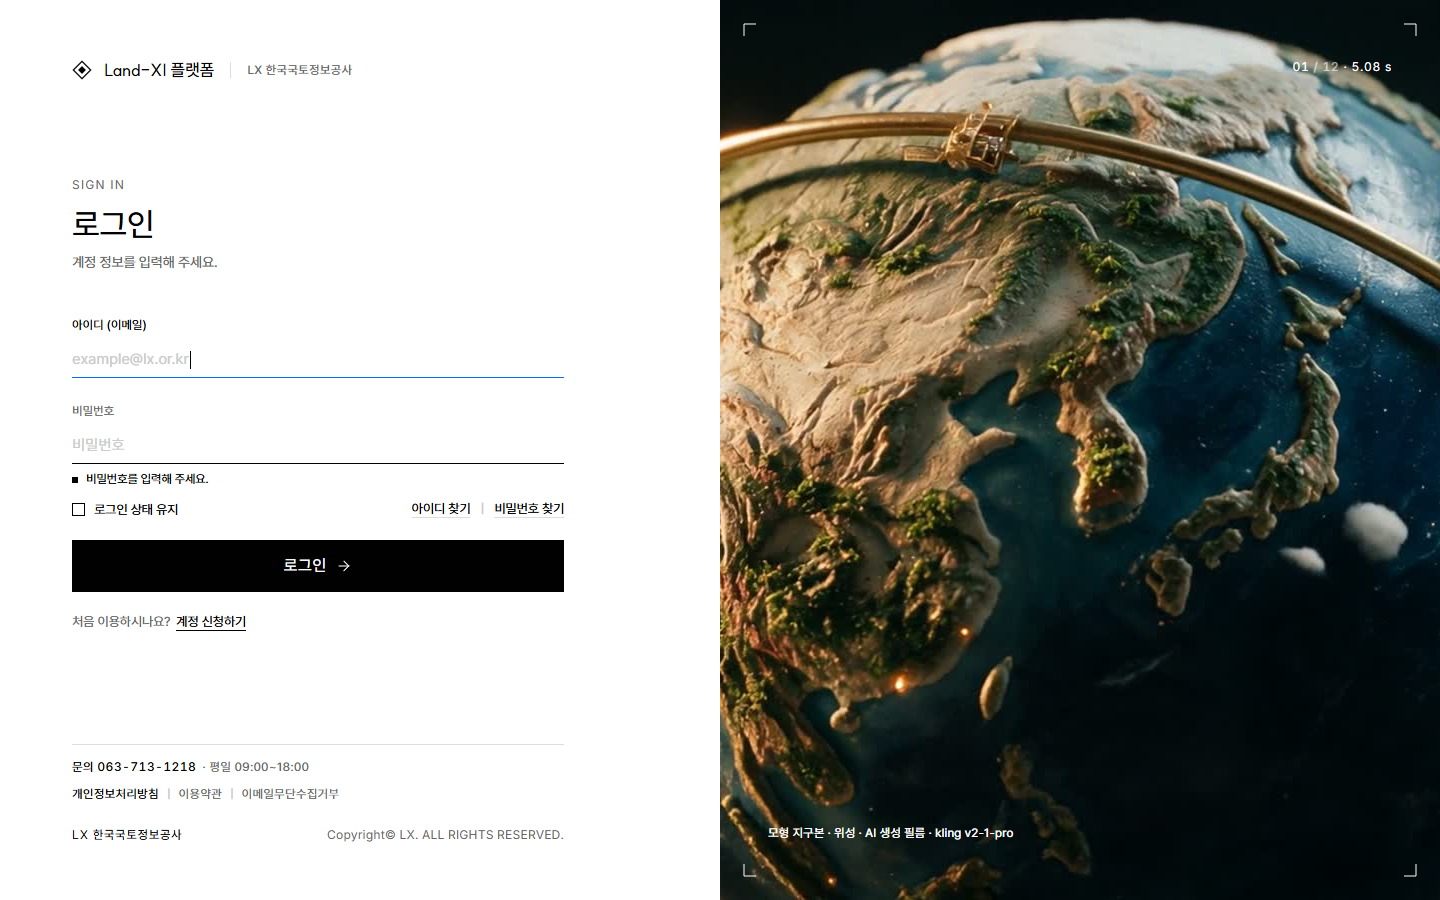
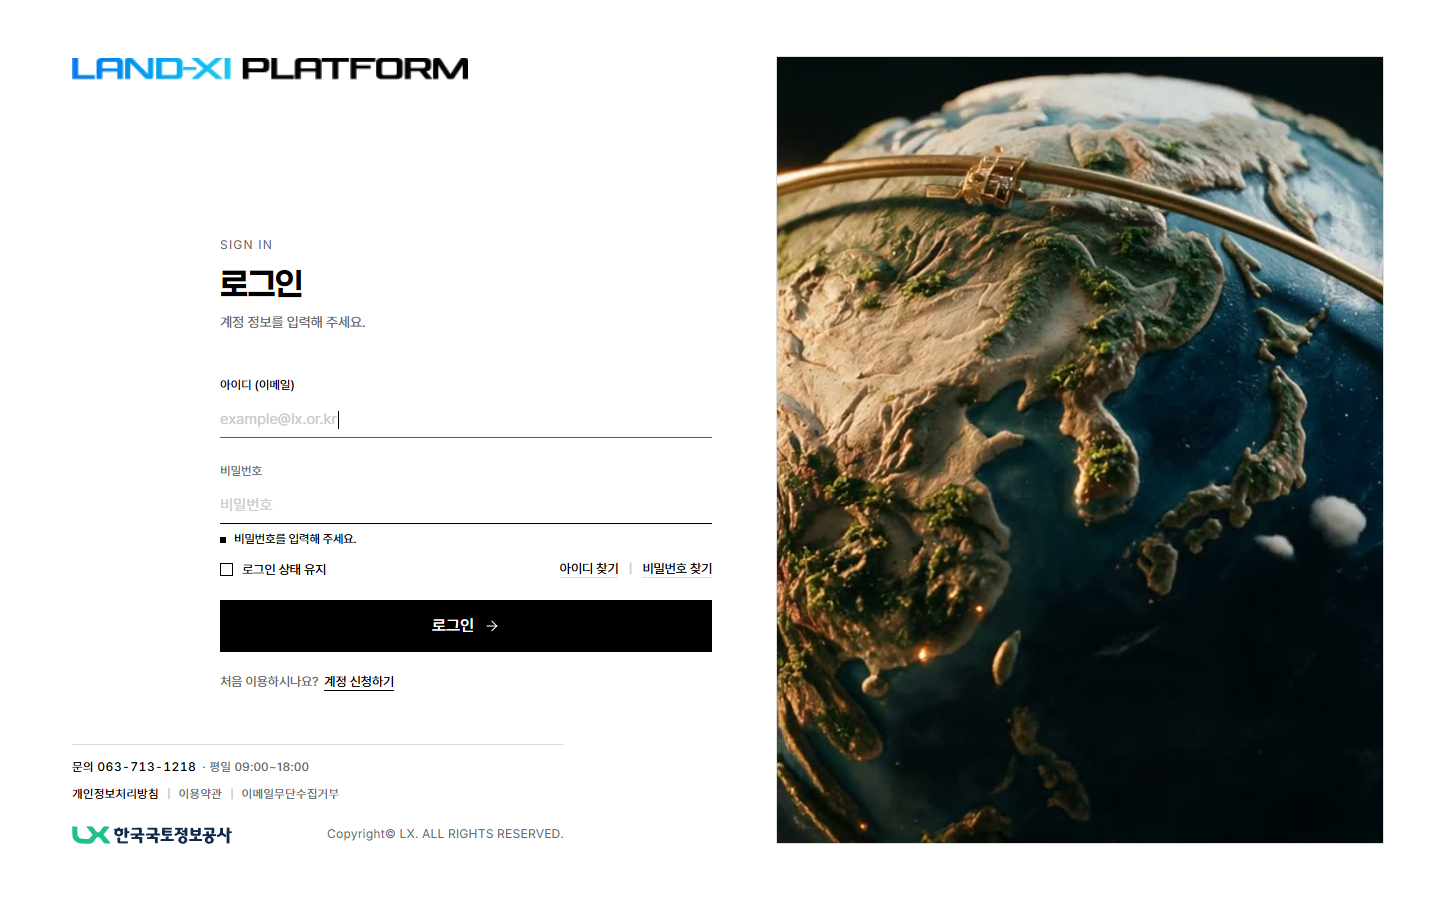
feat(login): 실제 CI 2종 + 필름 인셋 판(56) + 캡션 삭제 + 폼 우·하 이동 + Paperlogy/Pretendard T3
- 좌상 Land-XI 공식 워드마크(assets/brand/landxi-wordmark.png, 22px) · 좌하 LX 락업(vector/lx-lockup.svg, 18px) — 조판 로고·워드 대체(브랜드 예외)
- 우 필름: 풀블리드 → 마진 56 인셋 608×788, 헤어라인, 캡션·브래킷 0
- 폼 열 x 72→220(판과 간격 64), y +60 · 1024 폭 간격 유지
- 서체: 제목 Paperlogy 700 · 본문/버튼 Pretendard · 링크 호버 액센트(토큰은 login.css 로컬 정의)
- 마스터 B5-Login.dc.html · NOTES §14 3차 개정 · 렌더 · e2e 16/16

Claude-Session: https://claude.ai/code/session_01WM9MJXSpdbCfwY8af3obk9

diff --git a/design-canvas/v2/B5-Login.dc.html b/design-canvas/v2/B5-Login.dc.html
@@ -11,9 +11,13 @@
 @import url("https://cdn.jsdelivr.net/gh/sun-typeface/SUIT@2/fonts/static/woff2/SUIT.css");
 @import url("https://cdn.jsdelivr.net/gh/orioncactus/pretendard@v1.3.9/dist/web/static/pretendard.min.css");
 @import url("https://fonts.googleapis.com/css2?family=Inter:wght@400;500&display=swap");
+/* Paperlogy + Pretendard, T3 (발주 결정 2026-08-27) — 표시 Paperlogy 700, 본문/라벨/버튼 Pretendard */
+@font-face{font-family:'Paperlogy';font-weight:800;font-display:swap;src:url('https://fastly.jsdelivr.net/gh/projectnoonnu/2408-3@1.0/Paperlogy-8ExtraBold.woff2') format('woff2')}
+@font-face{font-family:'Paperlogy';font-weight:700;font-display:swap;src:url('https://fastly.jsdelivr.net/gh/projectnoonnu/2408-3@1.0/Paperlogy-7Bold.woff2') format('woff2')}
 *{box-sizing:border-box}
 body{margin:0;background:#FFFFFF;color:#010102;font-family:'Pretendard','SUIT',system-ui,sans-serif;font-weight:400;font-size:16px;line-height:1.44;-webkit-font-smoothing:antialiased}
-.d{font-family:'SUIT','Pretendard',system-ui,sans-serif;font-weight:500;letter-spacing:-.012em}
+.d{font-family:'Paperlogy','Pretendard',system-ui,sans-serif;font-weight:700;letter-spacing:-.012em}
+.b5{font-family:'Pretendard',system-ui,sans-serif;font-weight:500}
 .n{font-family:'Inter',system-ui,sans-serif;font-weight:400;font-variant-numeric:tabular-nums;font-feature-settings:'tnum' 1}
 .n5{font-family:'Inter',system-ui,sans-serif;font-weight:500;font-variant-numeric:tabular-nums;font-feature-settings:'tnum' 1}
 .lb{font-size:12px;line-height:1.2;letter-spacing:.10em;color:#686868;text-transform:uppercase;font-family:'Inter','Pretendard',system-ui,sans-serif}
@@ -25,22 +29,18 @@ body{margin:0;background:#FFFFFF;color:#010102;font-family:'Pretendard','SUIT',s
 </style></helmet>
 <div style="width:1440px;height:900px;position:relative;overflow:hidden;background:#FFFFFF;font-family:'Pretendard','SUIT',system-ui,sans-serif;color:#010102">
 
-<!-- LEFT 720 : login form is the primary object -->
-<div style="position:absolute;left:72px;top:58px;width:576px;display:flex;align-items:center;gap:12px">
-<svg width="20" height="20" viewBox="0 0 20 20" style="display:block"><path d="M10 1.4 18.6 10 10 18.6 1.4 10z" fill="none" stroke="#010102" stroke-width="1.3"/><path d="M10 6.1 13.9 10 10 13.9 6.1 10z" fill="#010102"/></svg>
-<div class="d" style="font-size:17px;letter-spacing:-.01em">Land-XI 플랫폼</div>
-<div style="width:1px;height:16px;background:#DDD;margin:0 4px"></div>
-<div class="kb">LX 한국국토정보공사</div>
-</div>
+<!-- LEFT 720 : anchors = real CI top-left + real LX lockup bottom-left; the form block sits right/low, 64px from the film plate.
+     Brand exception: both CI keep their own colours (Land-XI blue gradient · LX mint + navy). -->
+<img src="ci-landxi.png" alt="LAND-XI PLATFORM" style="position:absolute;left:72px;top:58px;height:22px;width:auto;display:block">
 
-<div style="position:absolute;left:72px;top:178px;width:492px">
+<div style="position:absolute;left:220px;top:238px;width:492px">
 <div class="lb">SIGN IN</div>
 <div class="d" style="font-size:32px;line-height:40px;margin-top:12px;letter-spacing:-.02em">로그인</div>
 <div style="font-size:14px;line-height:20px;margin-top:8px;color:#686868;letter-spacing:-.01em">계정 정보를 입력해 주세요.</div>
 </div>
 
 <!-- id field, focused: underline = the screen's single accent -->
-<div style="position:absolute;left:72px;top:318px;width:492px">
+<div style="position:absolute;left:220px;top:378px;width:492px">
 <div class="fld-l" style="color:#010102">아이디 (이메일)</div>
 <div class="fld" style="border-bottom:1px solid #006DF7">
 <div style="color:#CCCCCC">example@lx.or.kr</div>
@@ -49,7 +49,7 @@ body{margin:0;background:#FFFFFF;color:#010102;font-family:'Pretendard','SUIT',s
 </div>
 
 <!-- password field, empty-submit error (original copy) -->
-<div style="position:absolute;left:72px;top:404px;width:492px">
+<div style="position:absolute;left:220px;top:464px;width:492px">
 <div class="fld-l">비밀번호</div>
 <div class="fld"><div style="color:#CCCCCC">비밀번호</div></div>
 <div style="display:flex;align-items:center;gap:8px;margin-top:8px">
@@ -58,7 +58,7 @@ body{margin:0;background:#FFFFFF;color:#010102;font-family:'Pretendard','SUIT',s
 </div>
 </div>
 
-<div style="position:absolute;left:72px;top:500px;width:492px;display:flex;align-items:center">
+<div style="position:absolute;left:220px;top:560px;width:492px;display:flex;align-items:center">
 <div style="width:13px;height:13px;border:1px solid #010102;margin-right:9px"></div>
 <div class="link">로그인 상태 유지</div>
 <div style="margin-left:auto;display:flex;align-items:center;gap:10px">
@@ -67,12 +67,12 @@ body{margin:0;background:#FFFFFF;color:#010102;font-family:'Pretendard','SUIT',s
 </div>
 
 <!-- submit: the one filled CTA, ink -->
-<div style="position:absolute;left:72px;top:540px;width:492px;height:52px;background:#010102;display:flex;align-items:center;justify-content:center;gap:10px">
-<div class="d" style="font-size:16px;color:#FFFFFF;letter-spacing:.02em">로그인</div>
+<div style="position:absolute;left:220px;top:600px;width:492px;height:52px;background:#010102;display:flex;align-items:center;justify-content:center;gap:10px">
+<div class="b5" style="font-size:16px;color:#FFFFFF;letter-spacing:.02em">로그인</div>
 <svg width="16" height="16" viewBox="0 0 24 24" fill="none" stroke="#FFFFFF" stroke-width="1.6" stroke-linecap="square"><line x1="5" y1="12" x2="19" y2="12"/><polyline points="12 5 19 12 12 19"/></svg>
 </div>
 
-<div style="position:absolute;left:72px;top:614px;width:492px;display:flex;align-items:baseline;gap:6px">
+<div style="position:absolute;left:220px;top:674px;width:492px;display:flex;align-items:baseline;gap:6px">
 <div class="link" style="color:#686868">처음 이용하시나요?</div>
 <div class="link" style="border-bottom:1px solid #010102">계정 신청하기</div>
 </div>
@@ -87,23 +87,16 @@ body{margin:0;background:#FFFFFF;color:#010102;font-family:'Pretendard','SUIT',s
 <div style="display:flex;gap:8px;align-items:baseline;margin-top:12px">
 <div class="kb" style="color:#010102">개인정보처리방침</div><div class="sep" style="font-size:12px">|</div><div class="kb">이용약관</div><div class="sep" style="font-size:12px">|</div><div class="kb">이메일무단수집거부</div>
 </div>
-<div style="display:flex;align-items:baseline;margin-top:22px">
-<div class="d" style="font-size:12px;letter-spacing:.06em">LX 한국국토정보공사</div>
+<div style="display:flex;align-items:center;margin-top:22px">
+<img src="ci-lx-lockup.svg" alt="LX 한국국토정보공사" style="display:block;height:18px;width:auto">
 <div class="kb n" style="margin-left:auto;letter-spacing:.02em">Copyright© LX. ALL RIGHTS RESERVED.</div>
 </div>
 </div>
 
-<!-- RIGHT 720 : the diorama opening film, full-bleed (x 720–1440, y 0–900). Leg 1 frame @ t≈2.5 s.
-     Nothing on it but 12px white corner brackets and two caption lines — no HUD stickers. -->
-<div style="position:absolute;left:720px;top:0;width:720px;height:900px;overflow:hidden;background:#010102">
+<!-- RIGHT 720 : the diorama opening film as an inset plate — 56px white margin all round (x 776–1384 · y 56–844 = 608×788),
+     hairline edge, radius 0, shadow 0. Leg 1 frame @ t≈2.5 s. No captions, no brackets — the hairline is the frame. -->
+<div style="position:absolute;left:776px;top:56px;width:608px;height:788px;overflow:hidden;background:#010102;border:1px solid #DDDDDD">
 <img src="login-film.jpg" alt="" style="display:block;width:100%;height:100%;object-fit:cover;object-position:50% 50%">
-</div>
-<svg width="720" height="900" viewBox="0 0 720 900" style="position:absolute;left:720px;top:0;display:block"><path d="M24 36V24h12M684 24h12v12M696 864v12h-12M36 876H24v-12" fill="none" stroke="#FFFFFF" stroke-width="1"/></svg>
-<div style="position:absolute;left:720px;top:58px;width:720px;padding:0 48px;display:flex;align-items:baseline">
-<div class="n" style="margin-left:auto;font-size:12px;letter-spacing:.06em;color:#FFFFFF">01 <span style="opacity:.6">/ 12</span> · 5.08 s</div>
-</div>
-<div style="position:absolute;left:720px;top:826px;width:720px;padding:0 48px;display:flex;align-items:baseline">
-<div class="kb" style="color:#FFFFFF;letter-spacing:.02em">모형 지구본 · 위성 · AI 생성 필름 · kling v2-1-pro</div>
 </div>
 
 </div>

diff --git a/landxi/proto/login.css b/landxi/proto/login.css
@@ -1,8 +1,8 @@
 /* Land-XI 로그인 — 마스터 design-canvas/v2/B5-Login.dc.html (NOTES §14 · 2차 개정).
    SPLIT-5050(3차 개정): 좌 = 실제 CI 두 개가 앵커(좌상 Land-XI 워드마크 · 좌하 LX 락업), 폼(492)은 우·하로 붙어
    판과의 간격 64 · 우 = 디오라마 오프닝 필름(Leg 01) 인셋 판(마진 56 → 608×788, 헤어라인, 캡션 0).
-   서체 SUIT 500 / Pretendard 400 / Inter tabular · 헤어라인 · radius 0 · shadow 0 · 12px 바닥.
-   액센트 #006DF7 은 아이디·비밀번호 포커스 밑줄 한 곳.
+   서체(발주 결정 2026-08-27): 표시 Paperlogy 700 / 본문·라벨·버튼 Pretendard / 숫자 Inter tabular · 헤어라인 · radius 0 · shadow 0 · 12px 바닥.
+   톤 T3: 잉크 시스템 + 액센트 #006DF7(포커스 밑줄 · 링크 호버) · CTA 는 잉크. 띠 색 --tint-1/2 는 정의만(현재 미사용).
 
    프리미티브는 system.css 에서 온다: .lx-skip · .lx-num · [--lx-*] 토큰.
    여기 있는 것은 이 화면에만 있는 것뿐이다: .lx-field(밑줄 폼) · .lx-check · 필름 판 · 브래킷. */
@@ -12,11 +12,19 @@
   --lg-col:492px;               /* 폼 폭 */
   --lg-gap:64px;                /* 폼 오른끝 ↔ 필름 판 왼끝 */
   --lg-inset:56px;              /* 필름 판 마진 */
-  --lg-tint:#E8F1FF;            /* 필요 시 띠 색 — 현재 미사용 */
 }
 
 html,body{ height:100%; }
 body.lx{ overflow:hidden; background:var(--lx-paper); color:var(--lx-ink); }
+
+/* Paperlogy — fonts.html 과 같은 noonnu(jsDelivr) 배포. 토큰 --font-display/--tint-* 는 v3-tokens.css 에 아직 없어 여기 로컬 정의. */
+@font-face{font-family:'Paperlogy';font-weight:800;font-display:swap;src:url('https://fastly.jsdelivr.net/gh/projectnoonnu/2408-3@1.0/Paperlogy-8ExtraBold.woff2') format('woff2')}
+@font-face{font-family:'Paperlogy';font-weight:700;font-display:swap;src:url('https://fastly.jsdelivr.net/gh/projectnoonnu/2408-3@1.0/Paperlogy-7Bold.woff2') format('woff2')}
+:root{
+  --font-display:"Paperlogy","Pretendard",system-ui,sans-serif;
+  --tint-1:#E8F1FF;
+  --tint-2:#D6E6FF;
+}
 
 /* ── 액자 — 50/50 ─────────────────────────────────────────────────────────── */
 .lg{ position:relative; display:grid; grid-template-columns:1fr 1fr; height:100vh; min-height:640px; overflow:hidden; }
@@ -27,14 +35,14 @@ body.lx{ overflow:hidden; background:var(--lx-paper); color:var(--lx-ink); }
   /* 오른쪽 패딩 = 판 마진에서 폼 간격을 뺀 것 → 폼 오른끝이 판 왼끝에서 정확히 --lg-gap 떨어진다. */
   padding:58px calc(var(--lg-gap) - var(--lg-inset)) 40px var(--lg-m);
 }
-/* 실제 CI — 브랜드 예외: 공식 그라디언트 그대로(팔레트 법 밖). 높이 28 고정, 폭은 비율. */
+/* 실제 CI — 브랜드 예외: 공식 그라디언트 그대로(팔레트 법 밖). 높이 22 고정, 폭은 비율. */
 .lg-brand{ display:block; width:max-content; }
-.lg-brand__ci{ display:block; height:28px; width:auto; }
+.lg-brand__ci{ display:block; height:22px; width:auto; }
 
 /* 폼 블록은 우·하로 — 왼쪽 CI 와 판 사이 빈 공간을 없앤다. */
-.lg-head{ margin-top:160px; width:var(--lg-col); max-width:100%; margin-left:auto; }
+.lg-head{ margin-top:158px; width:var(--lg-col); max-width:100%; margin-left:auto; }
 .lg-head__l{ margin:0; font-size:12px; line-height:14px; letter-spacing:.10em; text-transform:uppercase; color:var(--lx-grey-2); }
-.lg-h1{ margin:12px 0 0; font-family:var(--lx-display); font-weight:500; font-size:32px; line-height:40px; letter-spacing:-.02em; }
+.lg-h1{ margin:12px 0 0; font-family:var(--font-display); font-weight:700; font-size:32px; line-height:40px; letter-spacing:-.02em; }
 .lg-sub{ margin:8px 0 0; font-size:14px; line-height:20px; letter-spacing:-.01em; color:var(--lx-grey-2); }
 .lg-banner{ margin:12px 0 0; font-size:12px; line-height:16px; color:var(--lx-ink); }
 .lg-banner[hidden]{ display:none; }
@@ -72,13 +80,13 @@ body.lx{ overflow:hidden; background:var(--lx-paper); color:var(--lx-ink); }
 .lx-check input:focus-visible + .lx-check__box{ outline:1px solid var(--lx-ink); outline-offset:2px; }
 .lg-find{ margin-left:auto; display:flex; align-items:center; gap:10px; }
 .lg-find__a{ font-size:13px; line-height:16px; letter-spacing:-.01em; color:var(--lx-ink); text-decoration:none; border-bottom:1px solid var(--lx-hair); transition:border-color var(--lx-hover) var(--lx-hover-ease); }
-.lg-find__a:hover{ border-bottom-color:var(--lx-ink); }
+.lg-find__a:hover{ color:var(--lx-accent); border-bottom-color:var(--lx-accent); }
 .lg-sep{ font-size:12px; color:var(--lx-grey); }
 
 .lg-submit{
   display:flex; align-items:center; justify-content:center; gap:10px; width:100%; height:52px; margin-top:24px;
   border:0; border-radius:0; background:var(--lx-ink); color:#FFFFFF; cursor:pointer;
-  font-family:var(--lx-display); font-weight:500; font-size:16px; letter-spacing:.02em;
+  font-family:var(--lx-body); font-weight:500; font-size:16px; letter-spacing:.02em;
 }
 .lg-submit[disabled]{ cursor:default; opacity:.6; }
 .lg-submit:focus-visible{ outline:1px solid var(--lx-ink); outline-offset:3px; }
@@ -86,14 +94,15 @@ body.lx{ overflow:hidden; background:var(--lx-paper); color:var(--lx-ink); }
 .lg-submit:hover svg{ transform:translateX(4px); }
 
 .lg-signup{ margin:22px 0 0; font-size:13px; line-height:16px; letter-spacing:-.01em; color:var(--lx-grey-2); }
-.lg-signup__a{ color:var(--lx-ink); text-decoration:none; border-bottom:1px solid var(--lx-ink); }
+.lg-signup__a{ color:var(--lx-ink); text-decoration:none; border-bottom:1px solid var(--lx-ink); transition:color var(--lx-hover) var(--lx-hover-ease), border-color var(--lx-hover) var(--lx-hover-ease); }
+.lg-signup__a:hover{ color:var(--lx-accent); border-bottom-color:var(--lx-accent); }
 
 /* ── 푸터 — 원본 3행 1:1 ──────────────────────────────────────────────────── */
 .lg-foot{ margin-top:auto; width:var(--lg-col); max-width:100%; padding-top:16px; border-top:1px solid var(--lx-hair); white-space:nowrap; }
 .lg-foot__row{ margin:0; display:flex; align-items:baseline; gap:6px; font-size:12px; line-height:14px; letter-spacing:.04em; color:var(--lx-grey-2); }
 .lg-foot__row + .lg-foot__row{ margin-top:12px; }
 .lg-foot__row a{ color:inherit; text-decoration:none; }
-.lg-foot__row a:hover{ color:var(--lx-ink); }
+.lg-foot__row a:hover{ color:var(--lx-accent); }
 .lg-foot__ink{ color:var(--lx-ink); }
 .lg-foot__ink b{ font-weight:500; }
 .lg-foot__policy{ gap:8px; }
